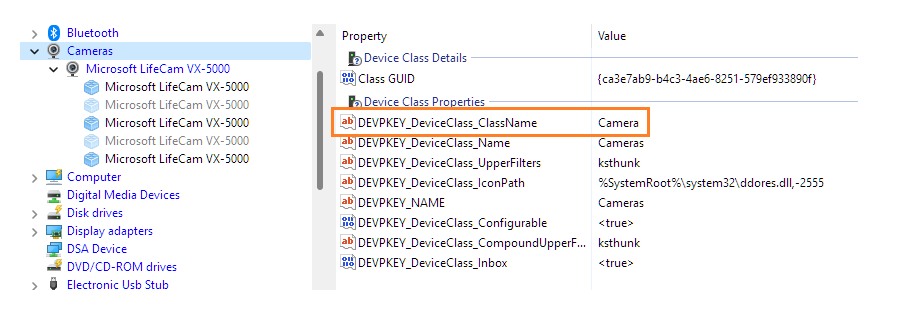
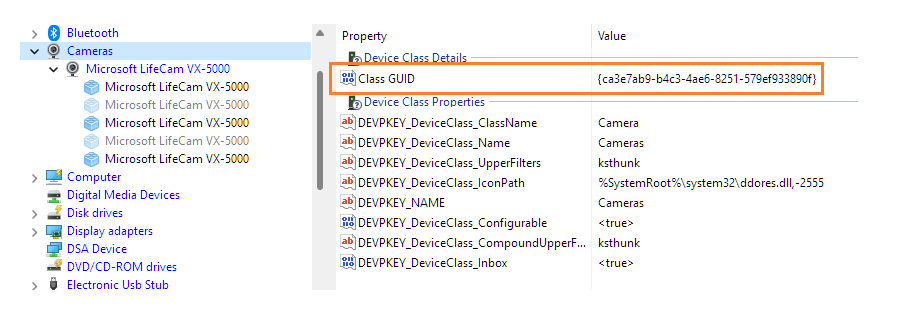
Merged PR 20644: After product team review
After product team review

Changed region(s): [[0.3434, 0.1846, 0.9365, 0.3385], [0.3746, 0.3385, 0.7492, 0.4308], [0.3434, 0.3385, 0.3746, 0.4]]

diff --git a/windows.devices.enumeration/deviceinformationkind.md b/windows.devices.enumeration/deviceinformationkind.md
@@ -79,23 +79,27 @@ The following diagram shows how the different device types interact with each ot
 
 <img src="images/device_type_interaction.png" alt="DeviceInformationKind relationships" />
 
-Below is an example of how the device objects map on a webcam. You can see one container, four devnodes, and the expanded devnode has five interfaces (three of which are enabled).
+Each line in the diagram above represents how the relationships between the object types are defined. A primary object has a *core object Id*. And then there's a property on the related object whose value equals that core object Id.
+
+For example, there are 0 to N **DeviceInterface** objects for a **DeviceInterfaceClass**. So 0 to N **DeviceInterface** objects exist that are of the device interface class represented by the **DeviceInterfaceClass** object. The **DeviceInterfaceClass** object's core object Id is a device interface class GUID. **DeviceInterface** objects in turn have a property named *DEVPKEY_DeviceInterface_ClassGuid*. The value of that property (a GUID) indicates what the **DeviceInterface** object's device interface class is (that is, what type of interface it is). And of course that value is equal to the core object Id of the related **DeviceInterfaceClass** object.
+
+Let's see some more examples. Below is an example of how the device objects map on a webcam. You can see one container, four device nodes (devnodes for short), and the expanded devnode has five device interfaces (three of which are enabled).
 
 <img src="images/example_1.png" alt="Device objects for a webcam" />
 
-Looking at the device properties of the selected (highlighted) interface, you can see how the properties are used to tie the object model together. The key names shown are in fact the Win32 versions. In the Windows Runtime (WinRT), the properties are mapped by the property system (see [Devices (Windows Property System)](https://learn.microsoft.com/windows/win32/properties/devices-bumper)).
+Looking at the properties of the selected (highlighted) device interface, you can see how the properties are used to tie the object model together. The key names shown are in fact the Win32 versions (for example, *DEVPKEY_DeviceInterface_ClassGuid*). In the Windows Runtime (WinRT), the properties are mapped by the property system (see [Devices (Windows Property System)](/windows/win32/properties/devices-bumper)), So the equivalent of *DEVPKEY_DeviceInterface_ClassGuid* is *System.Device.InterfaceClassGuid*.
 
 <img src="images/example_2.png" alt="X" />
 
-For example, you could take an interface class Id, and find the class object. Below, you can see that it's a *Cameras* class; and you can get more info about the class.
+For example, if you know a device interface class Id (also known as the Class GUID), then you can find the device interface class object with that Id (which is its core Id). In the illustration below, you can see that it just happens to be a *Cameras* device interface class; and you can see more info about that device interface class. Any device interface that's in this device interface class will have a *DEVPKEY_DeviceInterface_ClassGuid* property value equal to the the Class GUID shown below.
 
 <img src="images/example_3.png" alt="X" />
 
-Here's another example; this time of a Bluetooth headset. The devnode is selected. And highlighted is the AEP Id that it maps to for the association endpoint object.
+Here's another example; this time of a Bluetooth headset. The devnode is selected. And highlighted is the AEP Id that it maps to for the association endpoint object. This illustrates the relationship between **Device** objects and **Aep** objects. *DEVPKEY_Aep_AepId* (Win32) or **System.Devices.Aep.AepId** (WinRT) is the way to match those two object types together. The devnode will have a *DEVPKEY_Aep_AepId* property value if it's from a paired device. You can then use that value to find an **Aep** object whose core Id matches the value.
 
 <img src="images/example_4.png" alt="X" />
 
-Lastly, Here's an example of a devnode that shows what panel it belongs to, together with its Id. The panel represents the USB ports on the top of a personal computer's chassis.
+Lastly, Here's an example of a devnode that shows what panel it belongs to, together with its Id. The panel represents the USB ports on the top of a personal computer's chassis. This illustrates the relationship between **DevicePanel** (at the top of the illustration) and **Device** (or devnode; at the bottom of the illustration). Devnodes and device interfaces can have a *System.Devices.Panel.PanelId* property value. You can then use that value to find a **DevicePanel** object whose core Id matches the value.
 
 <img src="images/example_5.png" alt="X" />
 
